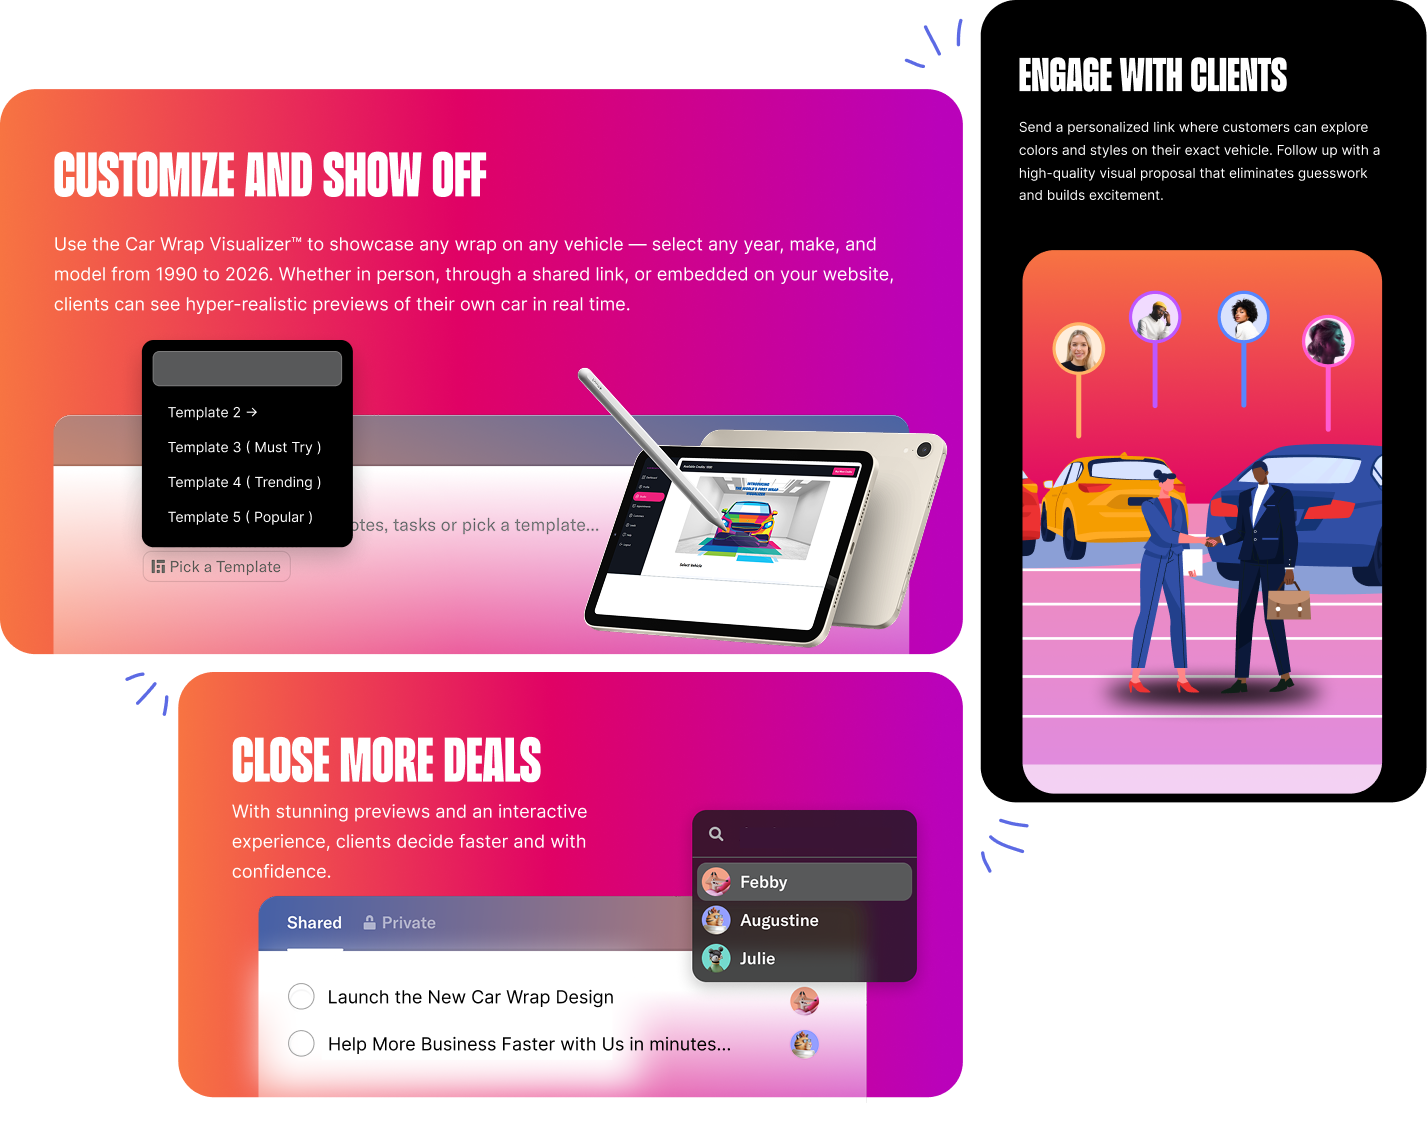
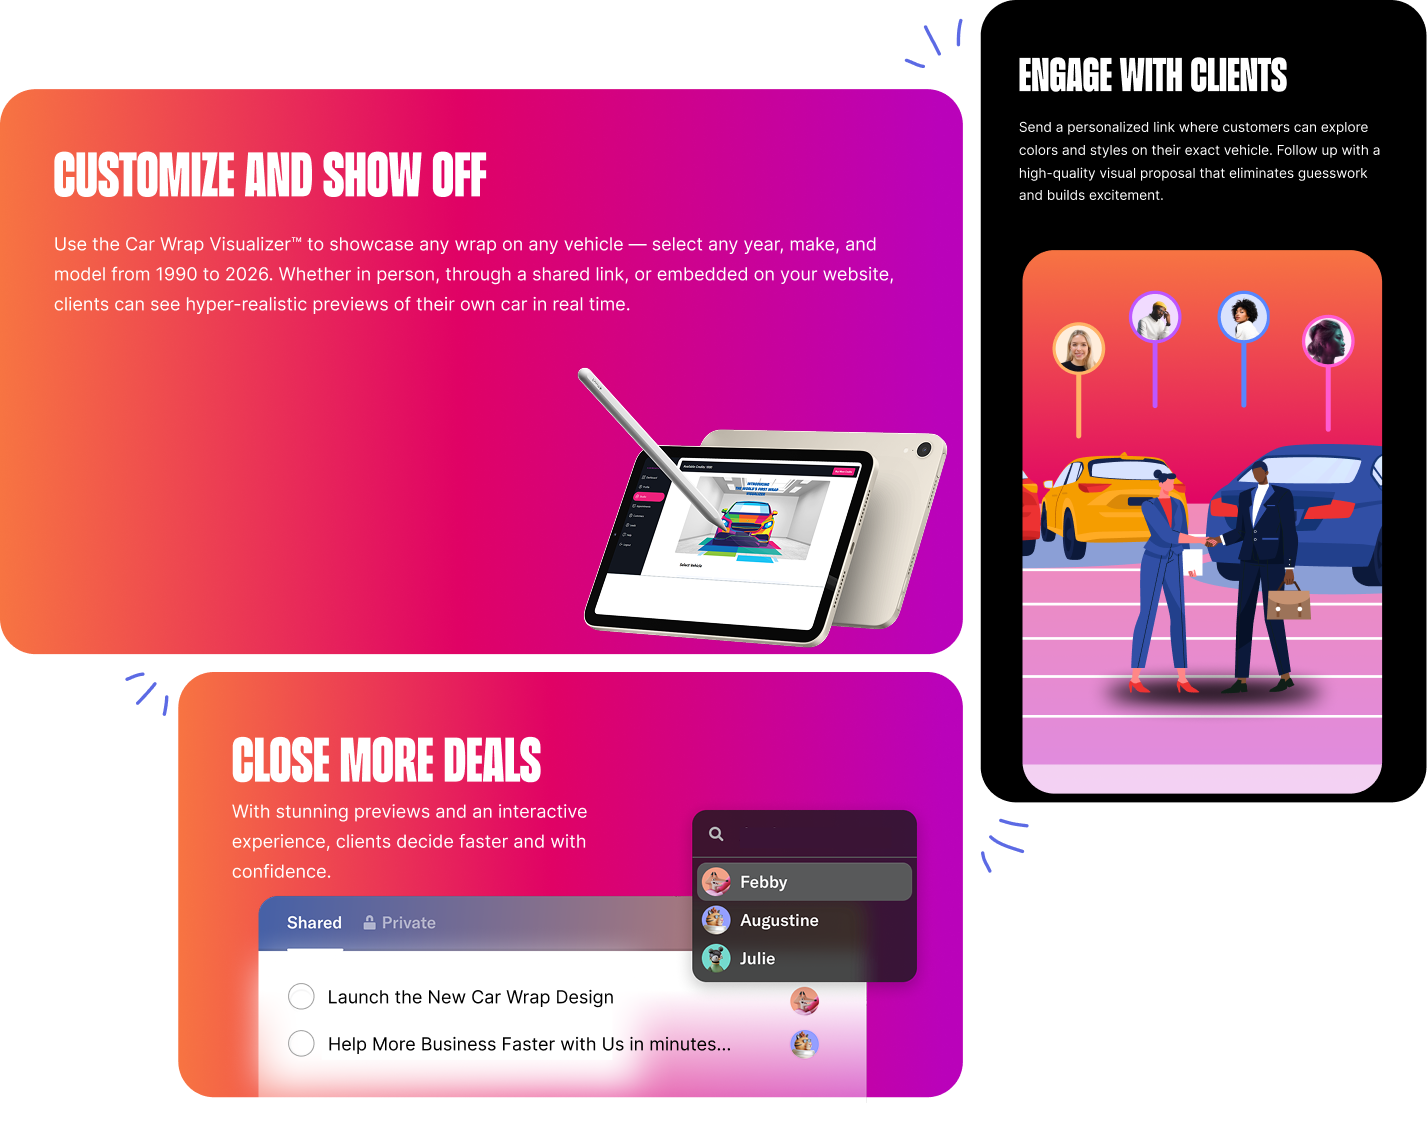
udpate some img and fixed changes

Changed region(s): [[0.0308, 0.2798, 0.6475, 0.5906]]

diff --git a/src/pages/Home/Components/TrendingColors.jsx b/src/pages/Home/Components/TrendingColors.jsx
@@ -1,4 +1,5 @@
 // TrendingColors.jsx
+import { Link } from 'react-router-dom';
 import colorgrid from '../../../assets/images/colorgrid.png';
 import purplecar from '../../../assets/images/purplecar.webp';
 
@@ -7,20 +8,22 @@ export default function TrendingColors() {
         <div className="w-full  bg-white py-20 text-black overflow-hidden">
 
             <div className="w-full max-w-[1400px] mx-auto px-4 md:px-8 grid grid-cols-1 md:grid-cols-2 gap-16 items-center">
-                
+
                 {/* LEFT TITLE + TEXT + BUTTON */}
                 <div>
-                    <h2 className="text-6xl font-BeniRegular text-center sm:leading-28 leading-16 md:text-8xl font-extrabold tracking-wide uppercase">
+                    <h2 className="text-6xl font-BeniRegular text-left sm:leading-28 leading-16 md:text-8xl font-extrabold tracking-wide uppercase">
                         Try Trending Colors.
                     </h2>
 
                     <p className="mt-4 text-gray-600 max-w-md">
                         Explore the most popular finishes: satin stealth, deep metallics, super-gloss, chrome, and more.
                     </p>
+                    <div className="mt-6">
+                        <Link to={'/tool'} className=" px-8 py-3 cursor-pointer bg-gradient-to-r from-[#F77442] via-[#E00265] to-[#BA02BA] transition-all rounded-full text-white font-semibold">
+                            Start Visualizing
+                        </Link>
+                    </div>
 
-                    <button className="mt-6 px-8 py-3 cursor-pointer bg-gradient-to-r from-[#F77442] via-[#E00265] to-[#BA02BA] transition-all rounded-full text-white font-semibold">
-                        Start Visualizing
-                    </button>
                 </div>
 
                 {/* RIGHT COLOR GRID IMAGE */}
@@ -36,7 +39,7 @@ export default function TrendingColors() {
 
             {/* SECOND ROW */}
             <div className="grid max-w-7xl mx-auto grid-cols-1  px-4 md:px-8 md:grid-cols-2 gap-16 items-center">
-                
+
                 {/* LEFT CAR IMAGE */}
                 <div className="flex z-20 justify-center md:justify-start">
                     <img
@@ -48,7 +51,7 @@ export default function TrendingColors() {
 
                 {/* RIGHT TITLE + TEXT + BUTTON */}
                 <div>
-                    <h2 className="text-6xl font-BeniRegular text-center sm:leading-28 leading-16 md:text-8xl font-extrabold tracking-wide uppercase">
+                    <h2 className="text-6xl font-BeniRegular text-left sm:leading-28 leading-16 md:text-8xl font-extrabold tracking-wide uppercase">
                         See Real-World Angles.
                     </h2>
 
@@ -56,9 +59,11 @@ export default function TrendingColors() {
                         Front, rear, profile, ¾ — switch views to see how each wrap behaves from every angle.
                     </p>
 
-                    <button className="mt-6 px-8 py-3 cursor-pointer bg-gradient-to-r from-[#F77442] via-[#E00265] to-[#BA02BA] transition-all rounded-full text-white font-semibold">
-                        Select Angle
-                    </button>
+                    <div className="mt-6">
+                        <Link to={'/tool'} className=" px-8 py-3 cursor-pointer bg-gradient-to-r from-[#F77442] via-[#E00265] to-[#BA02BA] transition-all rounded-full text-white font-semibold">
+                            Start Visualizing
+                        </Link>
+                    </div>
                 </div>
 
             </div>

diff --git a/src/Components/Home/ColorVisualizer.jsx b/src/Components/Home/ColorVisualizer.jsx
@@ -4,11 +4,12 @@ import { FaApple, FaGooglePlay } from "react-icons/fa";
 import colorCarImg from '../../assets/images/bannerImg.png';
 import gradientbg from '../../assets/images/gradientbg.webp';
 import ShapeDivider from "../ShapeDivider";
+import { Link } from "react-router-dom";
 
 const ColorVisualizer = ({ title, desc, app = false }) => {
     return (
         <section className=" bg-no-repeat bg-cover bg-center" style={{ backgroundImage: `url(${gradientbg})` }}>
-            <div className="grid md:grid-cols-2 px-3 sm:px-0 gap-8 max-w-[1400px] ml-auto text-white items-center py-20  relative ">
+            <div className="grid md:grid-cols-2 grid-cols-1 px-3 sm:px-0 gap-8 max-w-[1400px] ml-auto text-white items-center py-20  relative ">
 
                 {/* Text Section */}
                 <div className="z-10">
@@ -52,9 +53,12 @@ const ColorVisualizer = ({ title, desc, app = false }) => {
                         </>)}
 
                     {/* CTA Button */}
-                    <button className="bg-black cursor-pointer hover:scale-105   hover:bg-gray-900 text-white px-6 py-3 rounded-full text-lg font-medium shadow-md transition">
-                        Start Visualizing
-                    </button>
+                    <div className="mt-7">
+                        <Link to={'/tool'} className="bg-black cursor-pointer hover:scale-105   hover:bg-gray-900 text-white px-6 py-3 rounded-full text-lg font-medium shadow-md transition">
+                            Start Visualizing
+                        </Link>
+                    </div>
+
                 </div>
 
                 {/* Car Image Section */}
@@ -66,7 +70,7 @@ const ColorVisualizer = ({ title, desc, app = false }) => {
                     />
                 </div>
             </div>
-            
+
             {/* Optional Gradient Background Design */}
             {/* <div className="absolute inset-0 bg-gradient-to-br from-white/10 via-transparent to-pink-600/10 pointer-events-none" /> */}
         </section>

diff --git a/src/Components/Footer.jsx b/src/Components/Footer.jsx
@@ -9,17 +9,19 @@ const Footer = () => {
   return (
     <footer className="relative bg-[#12161F] text-white">
       <ShapeDivider color="#12161F" />
-     
+
       <div className="relative max-w-7xl mx-auto px-6 pt-2 pb-10">
-        
+
         {/* Main Grid */}
-        <div className="grid grid-cols-1 md:grid-cols-4 gap-10">
+        <div className="grid grid-cols-1 md:grid-cols-3 gap-10">
 
           {/* Brand */}
           <div className="space-y-4">
             <img src={newlogo} alt="Car Wrap Visualizer" className="w-20" />
             <p className="text-sm text-white">
-              World’s First Consumer Car <br /> Wrap Visualizer
+              © {new Date().getFullYear()}
+              Car Wrap Visualizer™
+              All rights reserved
             </p>
 
             {/* Social Icons */}
@@ -46,9 +48,8 @@ const Footer = () => {
           <div>
             <h4 className="text-sm font-semibold mb-4">Get to Know More</h4>
             <ul className="space-y-2 text-sm text-white">
-              <li><Link to="/terms" className="hover:text-pink-500">Terms</Link></li>
-              <li><Link to="/conditions" className="hover:text-pink-500">Conditions</Link></li>
-              <li><Link to="/privacy-policy" className="hover:text-pink-500">Privacy Policy</Link></li>
+              <li><Link to="#/terms" className="hover:text-pink-500"> Terms of Service</Link></li>
+              <li><Link to="#/privacy-policy" className="hover:text-pink-500">Privacy Policy</Link></li>
               <li><Link to="/login" className="hover:text-pink-500">Login</Link></li>
               <li><Link to="/signup" className="hover:text-pink-500">Register</Link></li>
             </ul>
@@ -56,9 +57,7 @@ const Footer = () => {
 
           {/* Copyright */}
           <div className="text-base text-white md:text-right">
-            © {new Date().getFullYear()}
-            Car Wrap Visualizer™
-            All rights reserved
+
           </div>
 
         </div>

diff --git a/src/pages/Home/Components/RealPreview.jsx b/src/pages/Home/Components/RealPreview.jsx
@@ -1,9 +1,10 @@
 // RealPreview.jsx
+import { Link } from 'react-router-dom';
 import goldcar from '../../../assets/images/goldcar.webp';
 import mapphoto from '../../../assets/images/mapphoto.png';
 export default function RealPreview() {
     return (
-        <div className="max-w-7xl mx-auto bg-no-repeat bg-bottom text-white py-20" style={{backgroundImage: `url(${mapphoto})`}}>
+        <div className="max-w-7xl mx-auto bg-no-repeat bg-bottom text-white py-20" style={{ backgroundImage: `url(${mapphoto})` }}>
             <div className="flex flex-col md:flex-row items-center gap-10">
 
                 {/* Car Image */}
@@ -26,9 +27,11 @@ export default function RealPreview() {
                         See how different finishes look on actual cars.
                     </p>
 
-                    <button className="mt-6 px-8 py-3 cursor-pointer bg-gradient-to-r from-[#F77442] via-[#E00265] to-[#BA02BA] transition-all rounded-full text-white font-semibold">
-                        Start Visualizing
-                    </button>
+                    <div className="mt-6">
+                        <Link to={'/tool'} className=" px-8 py-3 cursor-pointer bg-gradient-to-r from-[#F77442] via-[#E00265] to-[#BA02BA] transition-all rounded-full text-white font-semibold">
+                            Start Visualizing
+                        </Link>
+                    </div>
                 </div>
             </div>
 

diff --git a/src/pages/Home/Components/VisualizeEasySection.jsx b/src/pages/Home/Components/VisualizeEasySection.jsx
@@ -1,6 +1,7 @@
 import { FaStar } from "react-icons/fa";
 
 import iphonegold from '../../../assets/images/iphonegold.webp';
+import { Link } from "react-router-dom";
 export default function VisualizeEasySection() {
   return (
     <section className="relative w-full bg-white pt-14 pb-22 px-6 overflow-hidden">
@@ -42,15 +43,17 @@ export default function VisualizeEasySection() {
           </p>
 
           {/* CTA BUTTON */}
-          <button className="mt-10 px-8 py-3 cursor-pointer bg-gradient-to-r from-[#F77442] via-[#E00265] to-[#BA02BA] rounded-full text-white font-semibold shadow-xl">
-            Explore the features →
-          </button>
+          <div className="mt-10">
+            <Link to={'/explore'} className=" px-8 py-3 cursor-pointer bg-gradient-to-r from-[#F77442] via-[#E00265] to-[#BA02BA] rounded-full text-white font-semibold shadow-xl">
+              Explore the features →
+            </Link>
+          </div>
         </div>
 
         {/* RIGHT SIDE MOCKUP */}
         <div className="relative flex justify-center lg:justify-end">
 
-         
+
           {/* FLOATING BOLT */}
           <img
             src={iphonegold}
@@ -58,7 +61,7 @@ export default function VisualizeEasySection() {
             className=" w-4/5 animate-[float_5s_ease-in-out_infinite]"
           />
 
-        
+
         </div>
       </div>
 

diff --git a/src/pages/Home/Components/WrapPreviewSection.jsx b/src/pages/Home/Components/WrapPreviewSection.jsx
@@ -1,6 +1,7 @@
 import { Swiper, SwiperSlide } from "swiper/react";
 import BoostSalesVisual from '../../../assets/images/BoostSalesVisual.png';
 import "swiper/css";
+import { Link } from "react-router-dom";
 
 export default function WrapPreviewSection() {
     // Dummy testimonial data
@@ -83,10 +84,10 @@ export default function WrapPreviewSection() {
                     </div>
                 </div>
                 {/* CTA BUTTON */}
-                <div className="text-center">
-                    <button className="mt-10 px-8 py-3 cursor-pointer bg-gradient-to-r from-[#F77442] via-[#E00265] to-[#BA02BA] transition-all rounded-full text-white font-semibold">
+                <div className="mt-16 text-center">
+                    <Link to={'/explore'} className=" px-8 py-3 cursor-pointer bg-gradient-to-r from-[#F77442] via-[#E00265] to-[#BA02BA] transition-all rounded-full text-white font-semibold">
                         Explore the features →
-                    </button>
+                    </Link>
                 </div>
             </div>
     

diff --git a/src/pages/Home/Components/HeroBanner.jsx b/src/pages/Home/Components/HeroBanner.jsx
@@ -2,6 +2,7 @@ import { FaStar } from "react-icons/fa";
 import herobgtop from '../../../assets/images/hero-bg-top.png';
 import bannercar from '../../../assets/images/bannercar.png';
 import iPhone15 from '../../../assets/images/iPhone-15.webp';
+import { Link } from "react-router-dom";
 export default function HeroBanner() {
     return (
         <section className="relative w-full bg-black sm:pb-32 text-white overflow-hidden">
@@ -41,9 +42,9 @@ export default function HeroBanner() {
 
                 {/* CTA Button */}
                 <div className="mt-8">
-                    <button className="px-8 py-3 cursor-pointer bg-gradient-to-r from-[#F77442] via-[#E00265] to-[#BA02BA] transition-all rounded-full text-white font-semibold">
+                    <Link to={'/tool'} className="px-8 py-3 cursor-pointer bg-gradient-to-r from-[#F77442] via-[#E00265] to-[#BA02BA] transition-all rounded-full text-white font-semibold">
                         Start Visualizing
-                    </button>
+                    </Link>
                 </div>
 
 

diff --git a/src/pages/Explore/index.jsx b/src/pages/Explore/index.jsx
@@ -73,14 +73,14 @@ const Explore = () => {
           {/* CTAs */}
           <div className="flex flex-col sm:flex-row justify-center gap-4">
             <Link
-              to="/visualizer"
+              to="/tool"
               className="px-10 py-4 rounded-full font-semibold text-white bg-gradient-to-r from-orange-500 via-pink-500 to-purple-600 hover:opacity-90 transition"
             >
               Start Visualizing
             </Link>
 
             <Link
-              to="/colors"
+              to="/tool"
               className="px-10 py-4 rounded-full font-semibold text-white bg-gradient-to-r from-pink-600 to-purple-700 hover:opacity-90 transition"
             >
               Browse Colors

diff --git a/src/pages/wrapShop/index.jsx b/src/pages/wrapShop/index.jsx
@@ -82,7 +82,7 @@ const WrapShop = () => {
                     {/* CTAs */}
                     <div className="flex flex-col items-center justify-center gap-4">
                         <Link
-                            to="/visualizer"
+                            to="/tool"
                             className="px-10 py-4 rounded-full font-semibold text-white bg-gradient-to-r from-orange-500 via-pink-500 to-purple-600 hover:opacity-90 transition"
                         >
                             Get Started →

diff --git a/src/Components/Explore/CompareColors.jsx b/src/Components/Explore/CompareColors.jsx
@@ -31,7 +31,7 @@ const CompareColors = ({
             {description}
           </p>
 
-          {showStores && (
+          {/* {showStores && (
             <div className="flex gap-4">
               <div className="flex items-center gap-3 bg-black text-white px-4 py-2 rounded-lg">
                 <FaApple size={22} />
@@ -49,7 +49,7 @@ const CompareColors = ({
                 </div>
               </div>
             </div>
-          )}
+          )} */}
         </div>
       </div>
     </section>

diff --git a/src/Components/Header.jsx b/src/Components/Header.jsx
@@ -80,7 +80,7 @@ const Header = () => {
       {menuOpen && (
         <div className="md:hidden bg-black border-t border-white/10 px-6 py-6 space-y-4">
           <Link to="/" className="block text-white">Home</Link>
-          <Link to="/explore" className="block ">Explore</Link>
+          <Link to="/explore" className="block text-white ">Explore</Link>
           <Link to="/wrap-shops" className="block text-white">Wrap Shop</Link>
           <Link to="/blog" className="block text-white">Blog</Link>
 

diff --git a/src/App.jsx b/src/App.jsx
@@ -3,6 +3,7 @@ import './App.css';
 import AuthProvider from './context/AuthContext'; // Ensure Correct Path
 
 import Router from './router';
+import ScrollToTop from './Components/ScrollToTop';
 
 function App() {
 
@@ -13,7 +14,7 @@ function App() {
       
         <AuthProvider>
           {/* <ViewRoutes /> */}
-          
+          <ScrollToTop />
           <Router />
         </AuthProvider>
       </BrowserRouter>
